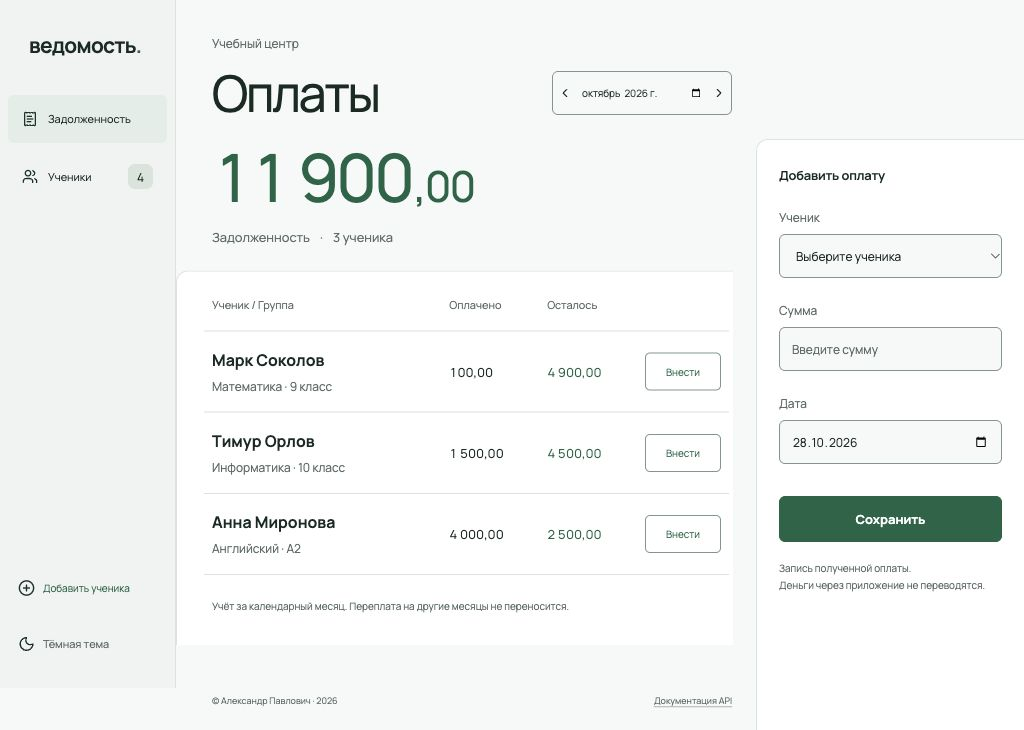
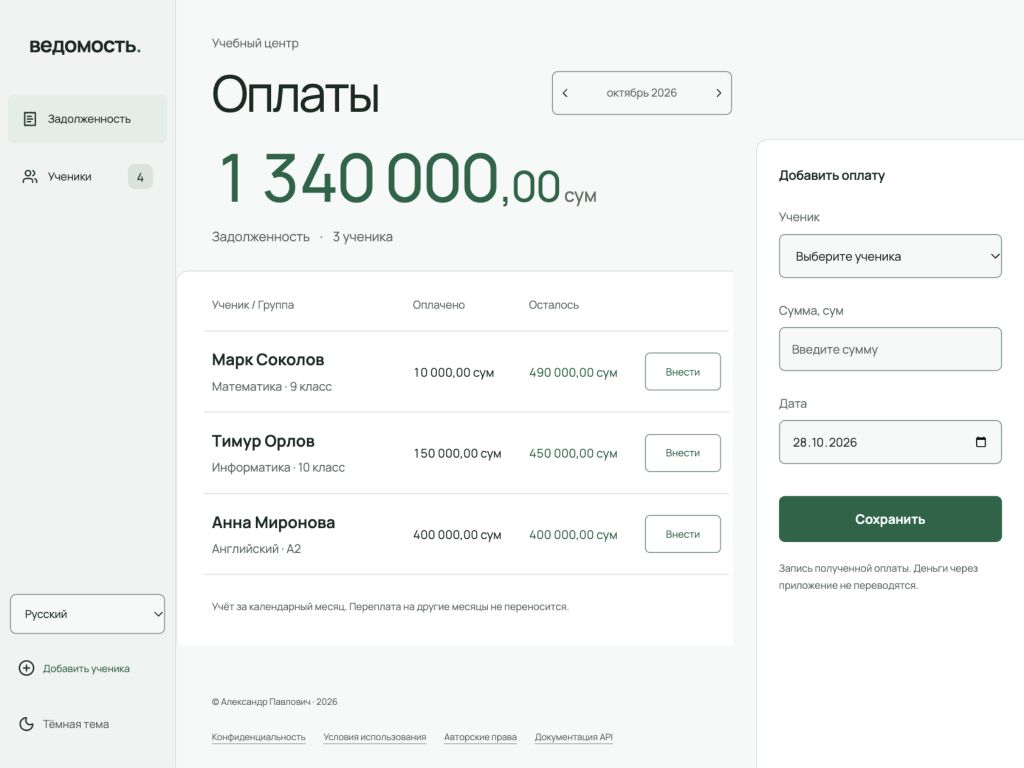
Show UZS units and use realistic school demo fees

diff --git a/app/static/translations.js b/app/static/translations.js
@@ -27,7 +27,8 @@ window.VEDOMOST_TRANSLATIONS = {
     addPayment: "Добавить оплату",
     student: "Ученик",
     chooseStudent: "Выберите ученика",
-    amount: "Сумма",
+    currencyUnit: "сум",
+    amount: "Сумма, сум",
     amountPlaceholder: "Введите сумму",
     date: "Дата",
     save: "Сохранить",
@@ -47,7 +48,7 @@ window.VEDOMOST_TRANSLATIONS = {
     phone: "Телефон",
     group: "Группа",
     groupPlaceholder: "Например, Английский А2",
-    monthlyFee: "Оплата за месяц",
+    monthlyFee: "Оплата за месяц, сум",
     saveStudent: "Сохранить ученика",
     history: "История оплат",
     deleteStudent: "Удалить ученика?",
@@ -101,7 +102,7 @@ window.VEDOMOST_TRANSLATIONS = {
     apiErrors: "Коды ответов",
     apiRules: "Расчёты и ограничения",
     apiRuleText:
-      "Денежные значения передаются строками с двумя знаками после запятой. Частичные платежи складываются за календарный месяц. Переплата не переносится. Для удаления ученика с оплатами возвращается 409.",
+      "В этой демоверсии используется узбекский сум (UZS). Смена языка не меняет валюту, конвертации нет. Денежные значения передаются строками с двумя знаками после запятой. Частичные платежи складываются за календарный месяц. Переплата не переносится. Для удаления ученика с оплатами возвращается 409.",
     apiStudentsText:
       "POST /students — создать; GET /students — список; GET /students/{id} — получить; PUT /students/{id} — заменить все поля; DELETE /students/{id} — удалить ученика без оплат.",
     apiPaymentsText:
@@ -152,7 +153,8 @@ window.VEDOMOST_TRANSLATIONS = {
     addPayment: "Add payment",
     student: "Student",
     chooseStudent: "Select a student",
-    amount: "Amount",
+    currencyUnit: "UZS",
+    amount: "Amount, UZS",
     amountPlaceholder: "Enter amount",
     date: "Date",
     save: "Save",
@@ -172,7 +174,7 @@ window.VEDOMOST_TRANSLATIONS = {
     phone: "Phone",
     group: "Group",
     groupPlaceholder: "For example, English A2",
-    monthlyFee: "Monthly fee",
+    monthlyFee: "Monthly fee, UZS",
     saveStudent: "Save student",
     history: "Payment history",
     deleteStudent: "Delete student?",
@@ -226,7 +228,7 @@ window.VEDOMOST_TRANSLATIONS = {
     apiErrors: "Response codes",
     apiRules: "Calculation rules and limits",
     apiRuleText:
-      "Money is represented by decimal strings with two fractional digits. Payments are summed per calendar month. Overpayments do not carry forward. Deleting a student with payments returns 409.",
+      "This demo uses the Uzbek sum (UZS). Changing the language does not change currency; there is no conversion. Money is represented by decimal strings with two fractional digits. Payments are summed per calendar month. Overpayments do not carry forward. Deleting a student with payments returns 409.",
     apiStudentsText:
       "POST /students — create; GET /students — list; GET /students/{id} — retrieve; PUT /students/{id} — replace all fields; DELETE /students/{id} — delete a student without payments.",
     apiPaymentsText:
@@ -277,7 +279,8 @@ window.VEDOMOST_TRANSLATIONS = {
     addPayment: "To‘lov qo‘shish",
     student: "O‘quvchi",
     chooseStudent: "O‘quvchini tanlang",
-    amount: "Summa",
+    currencyUnit: "so‘m",
+    amount: "Summa, so‘m",
     amountPlaceholder: "Summani kiriting",
     date: "Sana",
     save: "Saqlash",
@@ -296,7 +299,7 @@ window.VEDOMOST_TRANSLATIONS = {
     phone: "Telefon",
     group: "Guruh",
     groupPlaceholder: "Masalan, Ingliz tili A2",
-    monthlyFee: "Oylik to‘lov",
+    monthlyFee: "Oylik to‘lov, so‘m",
     saveStudent: "O‘quvchini saqlash",
     history: "To‘lovlar tarixi",
     deleteStudent: "O‘quvchi o‘chirilsinmi?",
@@ -351,7 +354,7 @@ window.VEDOMOST_TRANSLATIONS = {
     apiErrors: "Javob kodlari",
     apiRules: "Hisoblash qoidalari va cheklovlar",
     apiRuleText:
-      "Pul qiymatlari kasrdan keyin ikki xonali matn sifatida uzatiladi. To‘lovlar kalendar oy bo‘yicha jamlanadi. Ortiqcha to‘lov boshqa oyga o‘tmaydi. To‘lovlari bor o‘quvchini o‘chirish 409 javobini qaytaradi.",
+      "Bu demoda O‘zbekiston so‘mi (UZS) ishlatiladi. Tilni almashtirish valyutani o‘zgartirmaydi; konvertatsiya yo‘q. Pul qiymatlari kasrdan keyin ikki xonali matn sifatida uzatiladi. To‘lovlar kalendar oy bo‘yicha jamlanadi. Ortiqcha to‘lov boshqa oyga o‘tmaydi. To‘lovlari bor o‘quvchini o‘chirish 409 javobini qaytaradi.",
     apiStudentsText:
       "POST /students — yaratish; GET /students — ro‘yxat; GET /students/{id} — olish; PUT /students/{id} — barcha maydonlarni almashtirish; DELETE /students/{id} — to‘lovlari yo‘q o‘quvchini o‘chirish.",
     apiPaymentsText:

diff --git a/app/static/document.js b/app/static/document.js
@@ -79,14 +79,14 @@
         path === "/payments"
           ? {
               student_id: 1,
-              amount: "2500.00",
+              amount: "200000.00",
               date: localDay,
             }
           : {
               name: "Demo student",
               phone: "+7 000 000-00-00",
               group: "A2",
-              monthly_fee: "6500.00",
+              monthly_fee: "800000.00",
             },
         null,
         2,
@@ -171,9 +171,9 @@
           name: "Demo student",
           phone: "+7 000 000-00-00",
           group: "A2",
-          monthly_fee: "6500.00",
+          monthly_fee: "800000.00",
         },
-        { student_id: 1, amount: "2500.00", date: "2026-10-28" },
+        { student_id: 1, amount: "200000.00", date: "2026-10-28" },
       ];
       root.append(el("h2", t("example")));
       for (const sample of samples)

diff --git a/app/static/style.css b/app/static/style.css
@@ -1304,3 +1304,37 @@ textarea:focus-visible {
 .api-console pre {
   min-height: 70px;
 }
+
+.currency-unit {
+  font-size: 0.28em;
+  letter-spacing: 0;
+  color: var(--muted);
+  white-space: nowrap;
+}
+@media (max-width: 700px) {
+  .debtor-row {
+    grid-template-columns: minmax(0, 1fr) minmax(0, 1fr);
+  }
+  .debtor-person {
+    padding-right: 84px;
+  }
+  .pay-button {
+    grid-column: 2;
+    justify-self: end;
+    width: 72px;
+    min-width: 0;
+  }
+  .amount {
+    font-size: 16px;
+  }
+}
+@media (min-width: 951px) and (max-width: 1150px) {
+  .table-head,
+  .debtor-row {
+    grid-template-columns: minmax(130px, 1fr) 104px 104px 76px;
+    gap: 12px;
+  }
+  .amount {
+    font-size: 12px;
+  }
+}

diff --git a/app/static/app.js b/app/static/app.js
@@ -9,7 +9,9 @@ const number = (value) =>
   new Intl.NumberFormat(window.i18n.locale, {
     minimumFractionDigits: 2,
     maximumFractionDigits: 2,
-  }).format(value);
+  }).format(value) +
+  "\u00a0" +
+  t("currencyUnit");
 let students = [],
   deleteId = null,
   generation = 0;
@@ -153,6 +155,7 @@ function renderDebtors(report) {
   $("total").replaceChildren(
     document.createTextNode(whole),
     node("span", minor, "minor-amount"),
+    node("span", "\u00a0" + t("currencyUnit"), "currency-unit"),
   );
   $("debt-count").textContent = report.debtors.length;
   const count = report.debtors.length;

diff --git a/app/demo.py b/app/demo.py
@@ -23,10 +23,10 @@ def main():
                     raise SystemExit("База уже содержит учеников. Демоданные не добавлены.")
                 day = date.today().isoformat()
                 for name, group, fee, paid in [
-                    ("Анна Миронова", "Английский · А2", 650000, 400000),
-                    ("Марк Соколов", "Математика · 9 класс", 500000, 0),
-                    ("София Белова", "Английский · B1", 720000, 720000),
-                    ("Тимур Орлов", "Информатика · 10 класс", 600000, 150000),
+                    ("Анна Миронова", "Английский · А2", 80000000, 40000000),
+                    ("Марк Соколов", "Математика · 9 класс", 50000000, 0),
+                    ("София Белова", "Английский · B1", 85000000, 85000000),
+                    ("Тимур Орлов", "Информатика · 10 класс", 60000000, 15000000),
                 ]:
                     cursor = db.execute(
                         "INSERT INTO students(name,phone,group_name,monthly_fee_cents) "

diff --git a/README.md b/README.md
@@ -51,13 +51,13 @@ python -m app.demo
 Пример тела ученика:
 
 ```json
-{"name":"Анна","phone":"+7 000 000-00-00","group":"А2","monthly_fee":"6500.00"}
+{"name":"Анна","phone":"+7 000 000-00-00","group":"А2","monthly_fee":"800000.00"}
 ```
 
 Пример оплаты:
 
 ```json
-{"student_id":1,"amount":"2500.00","date":"2026-10-28"}
+{"student_id":1,"amount":"200000.00","date":"2026-10-28"}
 ```
 
 Ошибки: `422` — неверные поля/дата/месяц; `404` — неизвестный ученик; `409` — попытка удалить ученика с оплатами. Удаление ученика без оплат возвращает `204`. Денежные поля в ответах — строки с двумя знаками после запятой.
@@ -66,7 +66,7 @@ python -m app.demo
 
 Долг = текущий месячный тариф − сумма платежей ученика в выбранном календарном месяце. В список включены только положительные долги. Частичные платежи складываются, переплата не переносится на другой месяц. Изменение текущего тарифа влияет и на расчёт прошлых месяцев. Истории тарифов, дат зачисления и пропорционального начисления в задании нет.
 
-Суммы обрабатываются через `Decimal`, в SQLite хранятся целыми сотыми долями, максимум 9 999 999 999,99. Тариф может быть нулевым, платёж — только положительным. Приложение использует одну условную денежную единицу: валюта заданием не определена, конвертации нет. Дата — календарная дата без часового пояса; допускаются все корректные даты, в том числе будущие. Месяц — `YYYY-MM`, от `0001-01` до `9999-11`.
+Суммы обрабатываются через `Decimal`, в SQLite хранятся целыми сотыми долями, максимум 9 999 999 999,99. Тариф может быть нулевым, платёж — только положительным. Валюта заданием не определена; для этой демоверсии выбран узбекский сум (UZS). Обозначение присутствует в суммах и полях ввода на всех языках; смена языка не меняет валюту и значения, конвертации нет. API возвращает прежние десятичные строки. Дата — календарная дата без часового пояса; допускаются все корректные даты, в том числе будущие. Месяц — `YYYY-MM`, от `0001-01` до `9999-11`.
 
 Ученика с платежами удалить нельзя: история сохраняется. Изменение или отмена платежей в текущую версию не входят. Телефоны не уникальны: родительский номер может быть общим у нескольких учеников.
 

diff --git a/docs/architecture.md b/docs/architecture.md
@@ -25,3 +25,9 @@ FastAPI обслуживает JSON API и статические HTML/CSS/JS с
 `/privacy`, `/terms`, `/rights` и `/docs` обслуживаются локально и используют общие CSS-токены, боковую навигацию, темы и язык. `document.js` создаёт DOM через textContent; юридический текст хранится в `legal-content.js`. Язык выбирает региональную редакцию уведомления (Россия / Узбекистан / пояснения EU/EEA и США), но сам по себе не определяет юрисдикцию. Это документация демонстрации без реального оператора учебного центра; недостающие сведения не выдуманы. Политика ссылается на первичные источники и описывает фактическое отсутствие cookies, аналитики, авторизации и автоматического удаления.
 
 Встроенный Swagger с внешними ресурсами заменён локальным справочником и консолью фиксированных маршрутов. Консоль поддерживает методы API, JSON-тело, ID и месяц, показывает HTTP-статус и ответ. Записывающие запросы явно помечены как изменяющие локальную БД. `/openapi.json` сохраняется, `/redoc` перенаправляет на `/docs`. Тексты лицензии и сторонних уведомлений доступны по отдельным read-only маршрутам. Внешние ссылки не отправляют локальную базу.
+
+## Валюта демонстрации
+
+По просьбе пользователя суммы и поля ввода явно подписаны в узбекских сумах (UZS): сум / so‘m / UZS. Это выбранная единица демоверсии, поскольку задание не задаёт валюту. Числа, расчёт и контракт API не менялись; локализация не выполняет конвертацию.
+
+Демо-тарифы обновлены до500000–850000UZS в месяц, платежи согласованы с этим масштабом. Это правдоподобные вымышленные записи, не счета конкретного центра. Ориентиры, проверенные28октября2026: [Result School](https://result-school.uz/ru) публикует765000UZS за12уроков General English и810000UZS за12уроков CEFR; [Global School](https://www.globalschool.uz/) — математику от500000сум/месяц. Тариф информатики600000 — демонстрационное допущение, не цитата прайса. Локальные прежние фикстуры обновлены отдельно с резервной копией в игнорируемом data/. Автоматическая миграция чужих баз не добавлялась.

diff --git a/docs/verification.md b/docs/verification.md
@@ -24,3 +24,7 @@
 - Политика UZ в светлой теме и API в тёмной при375×812: viewport и scrollWidth равны375px. Документация RU при1024×768: обе ширины1024px. Скриншоты: api-dark.png, privacy-mobile-uz.png.
 - Локальная консоль `/docs`: GET /students вернул HTTP200 и фиктивные записи; записывающие методы в этой проверке не отправлялись.
 - Дополнительные HTML-страницы, редирект `/redoc`, тексты лицензий и OpenAPI доступны. HTTP-проверка не обнаружила Set-Cookie. Это не юридическая сертификация и не тест производственной обработки персональных данных.
+
+## Валюта и правдоподобные фикстуры
+
+Суммы, тарифы, история и поля ввода имеют обозначение UZS (сум / so‘m / UZS). Визуально проверены RU1024px и UZ375px с общим долгом1340000.00; денежные колонки и мобильные карточки поправлены под более длинные суммы. Смена языка не конвертирует значения. Новая пустая временная БД заполнена через app.demo: тарифы800000,500000,850000,600000UZS подтверждены API. Текущие локальные четыре вымышленные записи и пять тестовых платежей обновлены с резервной копией; пользовательские базы автоматически не мигрируют. Скриншоты README обновлены.
